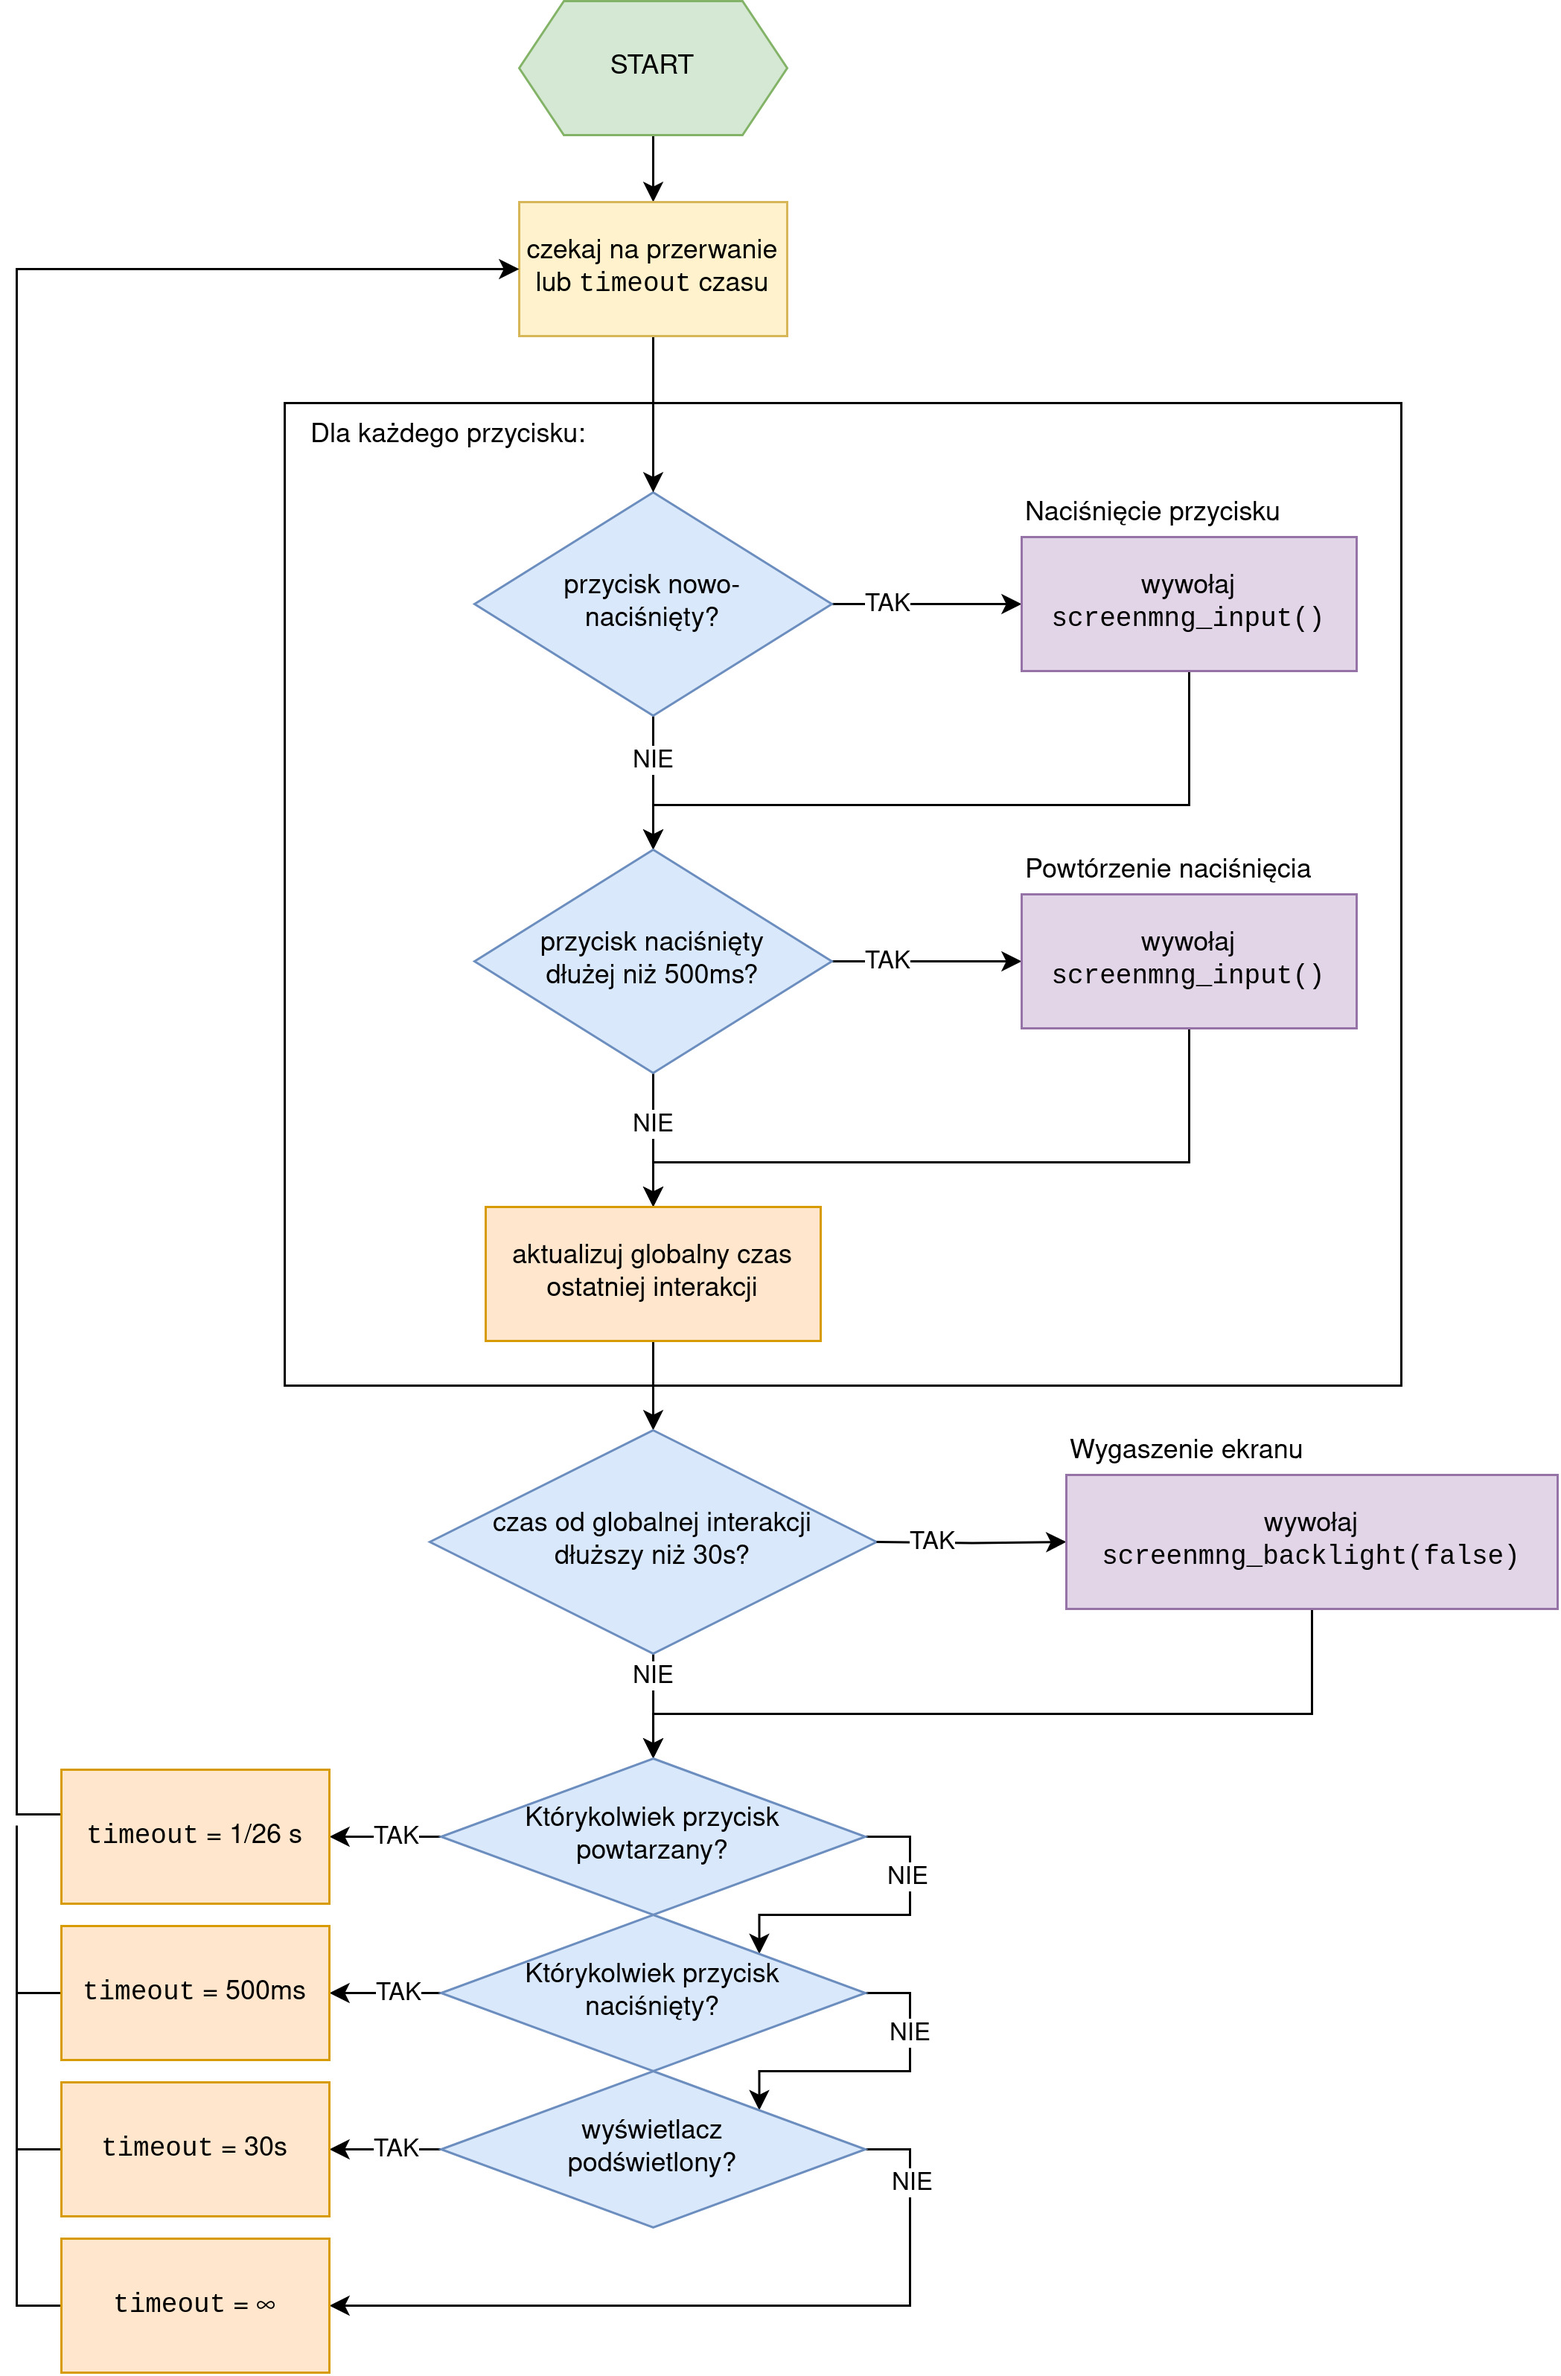
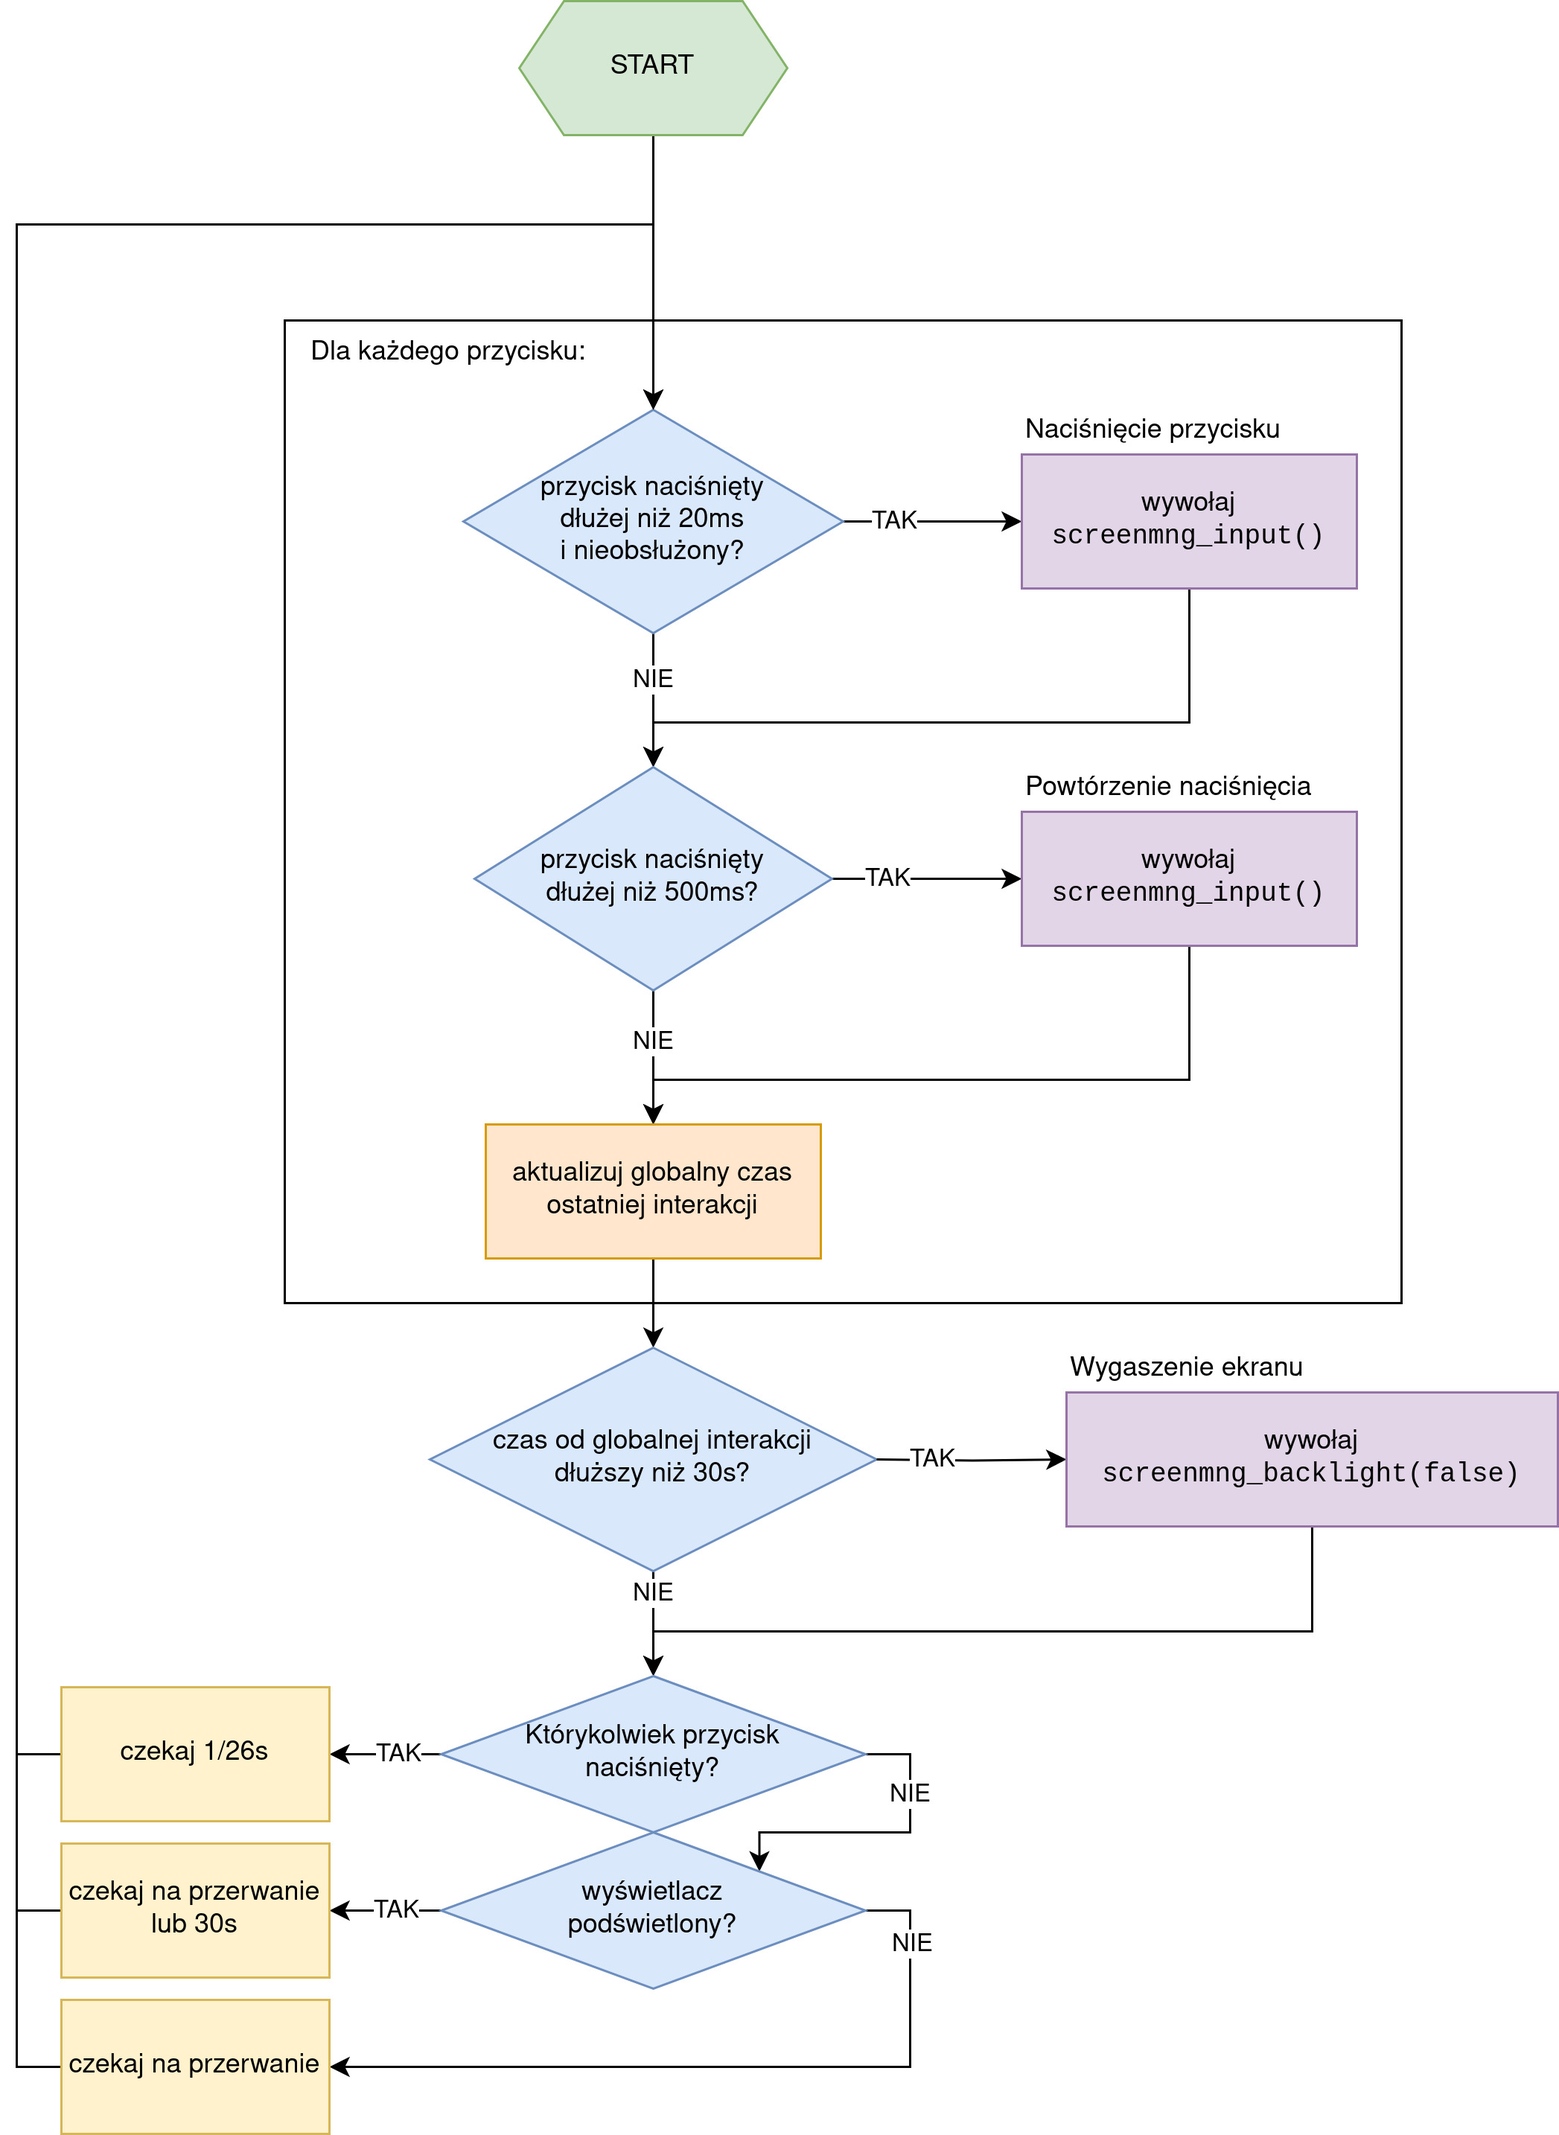
new buttons

diff --git a/inz.tex b/inz.tex
@@ -695,17 +695,17 @@
 		Katalogi te zawierają po 2 pliki (nagłówkowy i kod źródłowy) realizujące funkcje opisane poniżej.
 		
 		\subsection{Interakcje użytkownika}
-			Dane od użytkownika pobierane są za pomocą przycisków. Każdy z nich dołączony jest bezpośrednio do mikrokontrolera. Naciśnięcie lub zwolnienie przycisku powoduje wywołanie zbocza opadającego lub, odpowiednio, rosnącego. Wykryte przez układ, aktywują one przerwanie. Eliminacja drgań styków została osiągnięta poprzez zastosowanie zewnętrznych kondensatorów i wbudowanych przerzutników Schmitta dostępnych na każdym wejściu RP2040. Przerwanie, zgodnie z dobrymi praktykami, ustawia jedynie odpowiednie flagi, które zostały opisane poniżej.
+			Dane od użytkownika pobierane są za pomocą przycisków. Każdy z nich dołączony jest bezpośrednio do mikrokontrolera. Naciśnięcie przycisku powoduje wywołanie zbocza opadającego. Wykryte przez układ, aktywuje ono przerwanie. Eliminacja drgań styków została osiągnięta poprzez zastosowanie zewnętrznych kondensatorów i wbudowanych przerzutników Schmitta dostępnych na każdym wejściu RP2040, oraz poprzez odczekanie 20ms po wywołaniu przerwania i ponownym sprawdzeniu stanu na wejściu. Przerwanie, zgodnie z dobrymi praktykami, ustawia jedynie odpowiednie flagi, które zostały opisane poniżej.
 			
 			\paragraph{Przekazywanie danych}
 				Podsystem przycisków opiera się o dwie tablice zawierające odpowiednie dane dla każdego przycisku z osobna. Pierwsza z nich, o nazwie \lstinline|b_pressed[]|, zawiera wartości logiczne. Mówią one o tym czy przycisk jest w danej chwili wciśnięty czy nie. Druga, \lstinline|b_pressed_time_us[]|, zawiera informację, w której mikrosekundzie nastąpiło wciśnięcie przycisku. Używa ona wbudowanej funkcji \lstinline|time_us_32()| do pobierania czasu.
 			
-			\imgh{3/PicoRadio-buttons}{Maszyna stanów w module przycisków}{0.8}
+			\imgh{3/PicoRadio-buttons}{Maszyna stanów w module przycisków}{0.75}
 			
 			Przerwanie, oprócz ustawienia odpowiednich wartości w tablicach, wybudza zadanie \lstinline|input handle|. Zawiera ono maszynę stanów, która umożliwia, oprócz podstawowego przekazywania zdarzeń do interfejsu, powtarzanie naciśnięć, tak jak robią to klawiatury komputerowe. Dodatkowo zawarto w niej także obsługę wygaszania ekranu. Na rysunku~\ref{3/PicoRadio-buttons} przedstawiono jej funkcjonowanie.
 			
-			\paragraph{Zmienna \lstinline|timeout|}
-				Czas oczekiwania na ponowne uruchomienie maszyny jest tym mniejszy im częściej dane zdarzenie może wystąpić. To znaczy, gdy żaden z przycisków nie jest naciśnięty, a ekran wygaszony, maszyna oczekuje w nieskończoność na sygnał z przerwania. Gdy ekran nie jest wygaszony, zadanie czeka co najwyżej 30~s. Po tym czasie następuje sprawdzenie warunków do wygaszenia, np. czy odtwarzanie jest uruchomione (pominięte na rysunku). Gdy są one spełnione, ekran zostaje wygaszony. Rozpoczęcie powtarzania następuje po 500~ms ciągłego naciskania. Kiedy użytkownik kliknął i przytrzymuje przycisk, zadanie czeka maksymalnie 500~ms, ponieważ po takim czasie nastąpi akcja wymagająca obsłużenia (wygenerowanie powtórzonego kliknięcia). Gdy przycisk dalej jest trzymany opóźnienie spada do 1/26~sekundy, ponieważ, gdy powtarzane jest naciśnięcie któregokolwiek przycisku, należy skrócić cykl wywoływania maszyny aby osiągnąć zadaną liczbę 26~powtórzeń na sekundę. Wszystkie czasy są konfigurowalne w momencie kompilacji programu.
+			\paragraph{Czas oczekiwania}
+				Czas oczekiwania na ponowne uruchomienie maszyny jest tym mniejszy im częściej dane zdarzenie może wystąpić. To znaczy, gdy żaden z przycisków nie jest naciśnięty, a ekran wygaszony, maszyna oczekuje w nieskończoność na sygnał z przerwania. Gdy ekran nie jest wygaszony, zadanie czeka co najwyżej 30s. Po tym czasie następuje sprawdzenie warunków do wygaszenia, np. czy odtwarzanie jest uruchomione (pominięte na rysunku). Gdy są one spełnione, ekran zostaje wygaszony. Kiedy użytkownik kliknął i przytrzymuje przycisk, zadanie wykonuje się 26 razy na sekundę. Zapewnia to wystarczająco dokładny pomiar czasu, a nie obciąża zbytnio procesora. Jeżeli stan wejścia jest niski po minimum 20ms wykonywana jest jednokrotna akcja. Rozpoczęcie powtarzania następuje po 500ms ciągłego naciskania. Wartość 26 definiuje prędkość powtarzania znaków. Jest to częstotliwość powtarzania znaków przez klawiatury komputerowe. Wszystkie czasy są konfigurowalne w momencie kompilacji programu.
 		
 		\subsection{Karta SD}
 			Pin \textit{Card Detect} slotu na karty SD również został bezpośrednio podłączony do mikrokontrolera i działa zgodnie z tymi samymi zasadami co piny przycisków. Jednak obsługa wykrywania karty jest znacznie prostsza. Zadanie \lstinline|sd| wykrywa zmianę stanu na odpowiednim pinie i montuje lub odmontowuje kartę SD z wykorzystaniem biblioteki FatFS.
